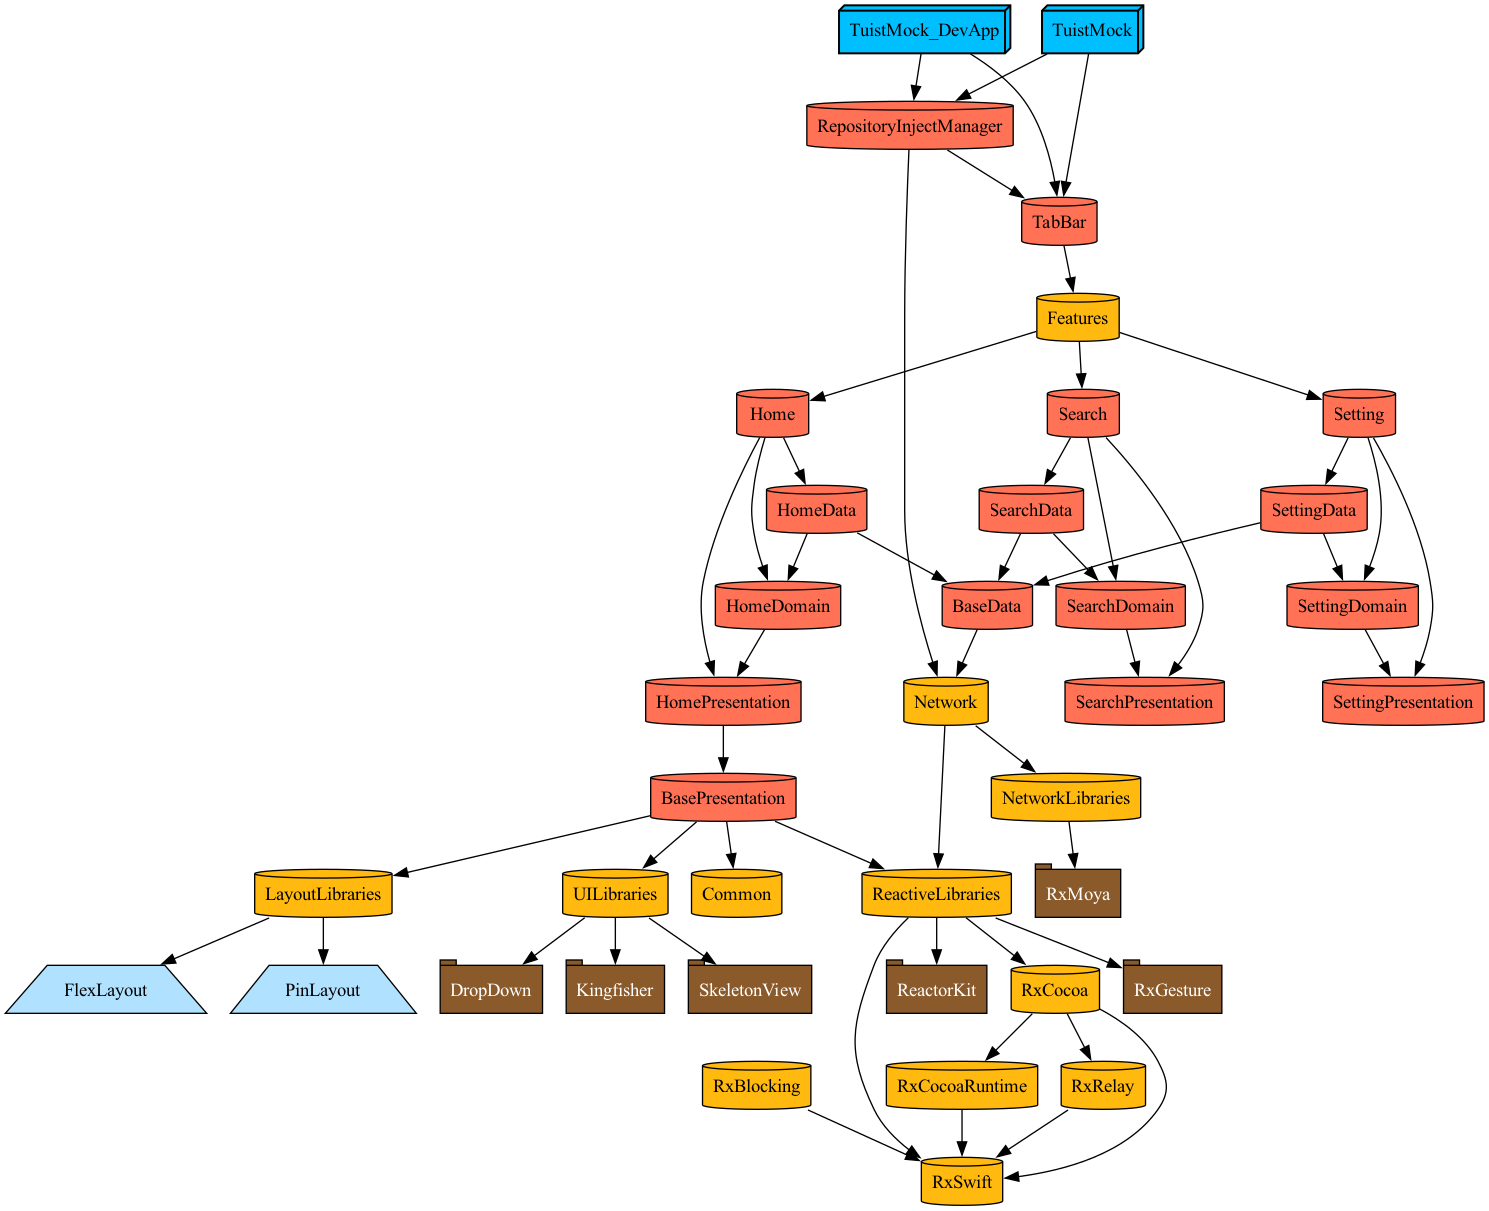
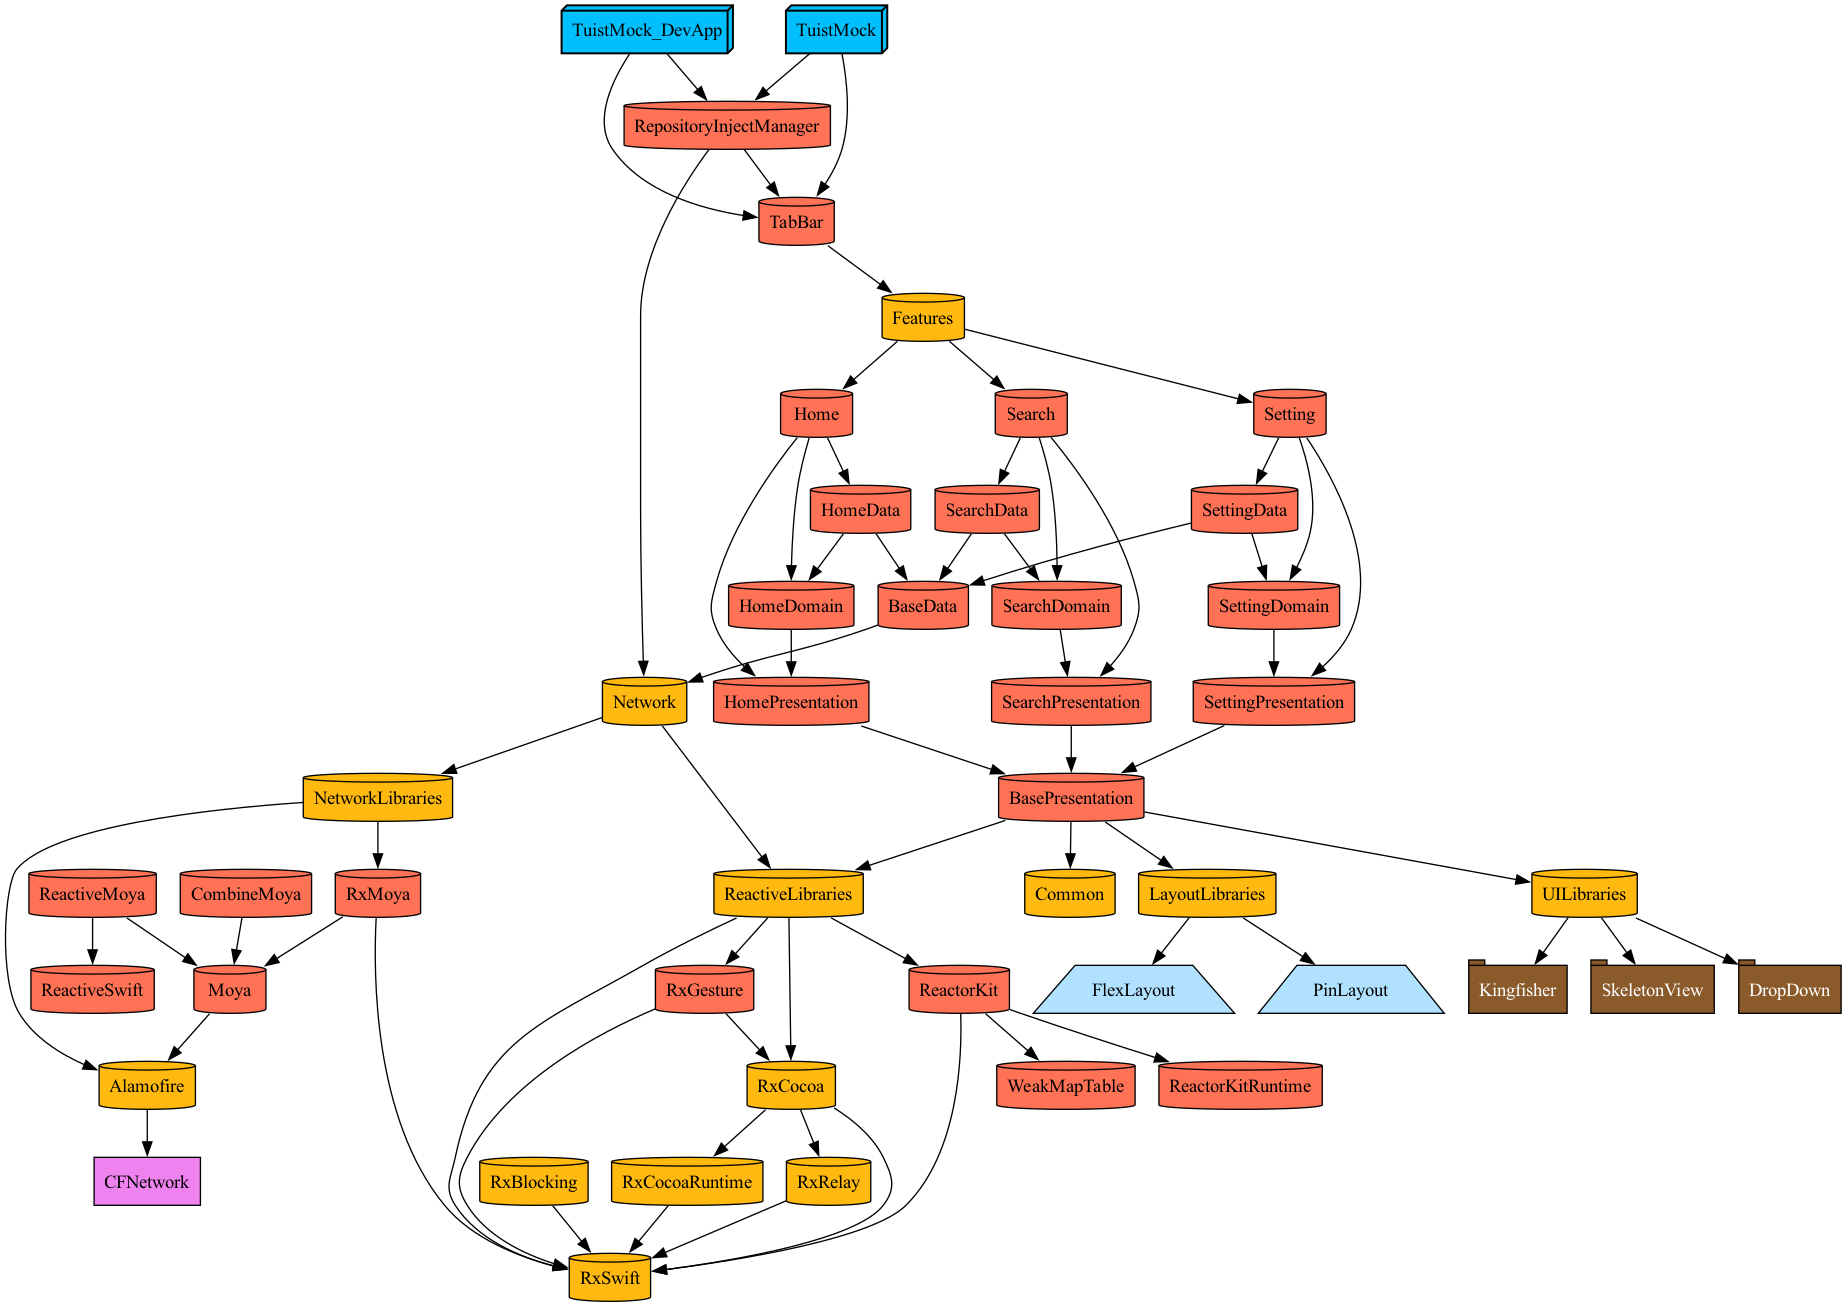
chore: Tuist

diff --git a/Plugins/UtilityPlugin/ProjectDescriptionHelpers/Dependencies/Dependency+SPM.swift b/Plugins/UtilityPlugin/ProjectDescriptionHelpers/Dependencies/Dependency+SPM.swift
@@ -27,18 +27,22 @@ extension Package {
 
 // MARK: - Network Target
 public extension TargetDependency.SwiftPM.Network {
-    static let Moya: TargetDependency = .package(product: "RxMoya")
-    static let All: [TargetDependency] = [Moya]
+//    static let Moya: TargetDependency = .package(product: "Moya")
+    static let Moya: TargetDependency = .external(name: "RxMoya")
+    static let Alamofire: TargetDependency = .external(name: "Alamofire")
+    static let All: [TargetDependency] = [Moya, Alamofire]
 }
 
 // MARK: - Reactive Target
 public extension TargetDependency.SwiftPM.Reactive {
 //    static let RxSwift: TargetDependency = .package(product: "RxSwift")
 //    static let RxCocoa: TargetDependency = .package(product: "RxCocoa")
+//    static let RxGesture: TargetDependency = .package(product: "RxGesture")
+//    static let ReactorKit: TargetDependency = .package(product: "ReactorKit")
     static let RxSwift: TargetDependency = .external(name: "RxSwift")
     static let RxCocoa: TargetDependency = .external(name: "RxCocoa")
-    static let RxGesture: TargetDependency = .package(product: "RxGesture")
-    static let ReactorKit: TargetDependency = .package(product: "ReactorKit")
+    static let RxGesture: TargetDependency = .external(name: "RxGesture")
+    static let ReactorKit: TargetDependency = .external(name: "ReactorKit")
     static let All: [TargetDependency] = [RxSwift, RxCocoa, RxGesture, ReactorKit]
 }
 
@@ -68,24 +72,27 @@ public extension TargetDependency.SwiftPM.Test {
 
 // MARK: - Network Package
 public extension Package.Network {
-    static let Alamofire: Package = .package(url: "https://github.com/Alamofire/Alamofire", .upToNextMajor(from: "5.0.0"))
-    static let Moya: Package = .package(url: "https://github.com/Moya/Moya", .upToNextMajor(from: "15.0.0"))
-    static let All: [Package] = [Alamofire, Moya]
+//    static let Alamofire: Package = .package(url: "https://github.com/Alamofire/Alamofire", .upToNextMajor(from: "5.0.0"))
+//    static let Moya: Package = .package(url: "https://github.com/Moya/Moya", .upToNextMajor(from: "15.0.0"))
+//    static let All: [Package] = [Alamofire, Moya]
+    static let All: [Package] = []
 }
 
 // MARK: - Reative Package
 public extension Package.Reactive {
-    static let RxSwift: Package = .package(url: "https://github.com/ReactiveX/RxSwift", .upToNextMajor(from: "6.0.0"))
-    static let RxGesture: Package = .package(url: "https://github.com/RxSwiftCommunity/RxGesture", .upToNextMajor(from: "4.0.0"))
-    static let ReactorKit: Package = .package(url: "https://github.com/ReactorKit/ReactorKit", .upToNextMajor(from: "3.0.0"))
-    static let All: [Package] = [RxSwift, RxGesture, ReactorKit]
+//    static let RxSwift: Package = .package(url: "https://github.com/ReactiveX/RxSwift", .upToNextMajor(from: "6.0.0"))
+//    static let RxGesture: Package = .package(url: "https://github.com/RxSwiftCommunity/RxGesture", .upToNextMajor(from: "4.0.0"))
+//    static let ReactorKit: Package = .package(url: "https://github.com/ReactorKit/ReactorKit", .upToNextMajor(from: "3.0.0"))
+//    static let All: [Package] = [RxSwift, RxGesture, ReactorKit]
+    static let All: [Package] = []
 }
 
 // MARK: - Layout Package
 public extension Package.Layout {
-    static let FlexLayout: Package = .package(url: "https://github.com/layoutBox/FlexLayout", .branch("master"))
-    static let PinLayout: Package = .package(url: "https://github.com/layoutBox/PinLayout", .branch("master"))
-    static let All: [Package] = [FlexLayout, PinLayout]
+//    static let FlexLayout: Package = .package(url: "https://github.com/layoutBox/FlexLayout", .branch("master"))
+//    static let PinLayout: Package = .package(url: "https://github.com/layoutBox/PinLayout", .branch("master"))
+//    static let All: [Package] = [FlexLayout, PinLayout]
+    static let All: [Package] = []
 }
 
 // MARK: - UI Package

diff --git a/Tuist/Dependencies.swift b/Tuist/Dependencies.swift
@@ -13,15 +13,23 @@ let dependencies: Dependencies = .init(
     carthage:
         [
             .github(path: "https://github.com/layoutBox/FlexLayout.git", requirement: .branch("master")),
-            .github(path: "https://github.com/layoutBox/PinLayout.git", requirement: .branch("master"))
+            .github(path: "https://github.com/layoutBox/PinLayout.git", requirement: .branch("master")),
         ],
     swiftPackageManager: SwiftPackageManagerDependencies(
         [
-            .remote(url: "https://github.com/ReactiveX/RxSwift.git", requirement: .upToNextMajor(from: "6.5.0")),
+            .remote(url: "https://github.com/ReactiveX/RxSwift.git", requirement: .upToNextMajor(from: "6.6.0")),
             .remote(url: "https://github.com/RxSwiftCommunity/RxGesture.git", requirement: .upToNextMajor(from: "4.0.0")),
+            .remote(url: "https://github.com/ReactorKit/ReactorKit.git", requirement: .branch("master")),
+            .remote(url: "https://github.com/RxSwiftCommunity/RxGesture", requirement: .upToNextMajor(from: "4.0.0")),
+            .remote(url: "https://github.com/Alamofire/Alamofire", requirement: .upToNextMajor(from: "5.0.0")),
+            .remote(url: "https://github.com/Moya/Moya", requirement: .upToNextMajor(from: "15.0.0")),
         ],
         productTypes: [
-            "RxCocoaRuntime": .framework
+//            "ReactorKit": .framework,
+//            "WeakMapTable": .framework,
+//            "ReactorKitRuntime": .framework,
+//            "RxGesture": .framework,
+            "RxCocoaRuntime": .framework,
         ]
     ),
     platforms: [.iOS]

diff --git a/Plugins/UtilityPlugin/ProjectDescriptionHelpers/Dependencies/Dependency+Carthage.swift b/Plugins/UtilityPlugin/ProjectDescriptionHelpers/Dependencies/Dependency+Carthage.swift
@@ -13,8 +13,15 @@ public extension TargetDependency {
 }
 
 public extension TargetDependency.Carthage {
+    static let FlexLayout: TargetDependency = .carthage(name: "FlexLayout")
+    static let PinLayout: TargetDependency = .carthage(name: "PinLayout")
+    
     static let RxSwift: TargetDependency = .carthage(name: "RxSwift")
     static let RxCocoa: TargetDependency = .carthage(name: "RxCocoa")
+    static let RxGesture: TargetDependency = .carthage(name: "RxGesture")
+    static let ReactorKit: TargetDependency = .carthage(name: "ReactorKit")
+    static let Moya: TargetDependency = .carthage(name: "Moya")
+    static let Alamofire: TargetDependency = .carthage(name: "Alamofire")
 }
 
 public extension TargetDependency {

diff --git a/Projects/LibraryManager/LayoutLibraries/Project.swift b/Projects/LibraryManager/LayoutLibraries/Project.swift
@@ -11,12 +11,16 @@ import UtilityPlugin
 
 let project: Project = .framework(
     name: "LayoutLibraries",
-    settings: [
-        "OTHER_LDFLAGS": [
-            "$(inherited)",
-            "-all_load"
-        ]
-    ],
-    packages: Package.Layout.All,
-    dependencies: TargetDependency.SwiftPM.Layout.All
+//    settings: [
+//        "OTHER_LDFLAGS": [
+//            "$(inherited)",
+//            "-all_load"
+//        ]
+//    ],
+//    packages: Package.Layout.All,
+//    dependencies: TargetDependency.SwiftPM.Layout.All
+    dependencies: [
+        TargetDependency.Carthage.FlexLayout,
+        TargetDependency.Carthage.PinLayout
+    ]
 )

diff --git a/Projects/LibraryManager/NetworkLibraries/Project.swift b/Projects/LibraryManager/NetworkLibraries/Project.swift
@@ -11,12 +11,12 @@ import UtilityPlugin
 
 let project: Project = .framework(
     name: "NetworkLibraries",
-    settings: [
-        "OTHER_LDFLAGS": [
-            "$(inherited)",
-            "-all_load"
-        ]
-    ],
-    packages: Package.Network.All,
+//    settings: [
+//        "OTHER_LDFLAGS": [
+//            "$(inherited)",
+//            "-all_load"
+//        ]
+//    ],
+//    packages: Package.Network.All,
     dependencies: TargetDependency.SwiftPM.Network.All
 )

diff --git a/Projects/LibraryManager/UILibraries/Project.swift b/Projects/LibraryManager/UILibraries/Project.swift
@@ -11,12 +11,12 @@ import UtilityPlugin
 
 let project: Project = .framework(
     name: "UILibraries",
-    settings: [
-        "OTHER_LDFLAGS": [
-            "$(inherited)",
-            "-all_load"
-        ]
-    ],
+//    settings: [
+//        "OTHER_LDFLAGS": [
+//            "$(inherited)",
+//            "-all_load"
+//        ]
+//    ],
     packages: Package.UI.All,
     dependencies: TargetDependency.SwiftPM.UI.All
 )

diff --git a/Projects/Presentation/SettingPresentation/Project.swift b/Projects/Presentation/SettingPresentation/Project.swift
@@ -12,6 +12,6 @@ import UtilityPlugin
 let project: Project = .staticFramework(
     name: "SettingPresentation",
     dependencies: [
-//        .Project.Feature.Presentation.Base
+        .Project.Feature.Presentation.Base
     ]
 )

diff --git a/Projects/Presentation/SearchPresentation/Project.swift b/Projects/Presentation/SearchPresentation/Project.swift
@@ -12,6 +12,6 @@ import UtilityPlugin
 let project: Project = .staticFramework(
     name: "SearchPresentation",
     dependencies: [
-//        .Project.Feature.Presentation.Base
+        .Project.Feature.Presentation.Base
     ]
 )

diff --git a/Projects/Application/Sources/AppDelegate.swift b/Projects/Application/Sources/AppDelegate.swift
@@ -7,6 +7,10 @@
 //
 
 import UIKit
+import NetworkLibraries
+import LayoutLibraries
+import ReactiveLibraries
+import UILibraries
 
 @main
 class AppDelegate: UIResponder, UIApplicationDelegate {
